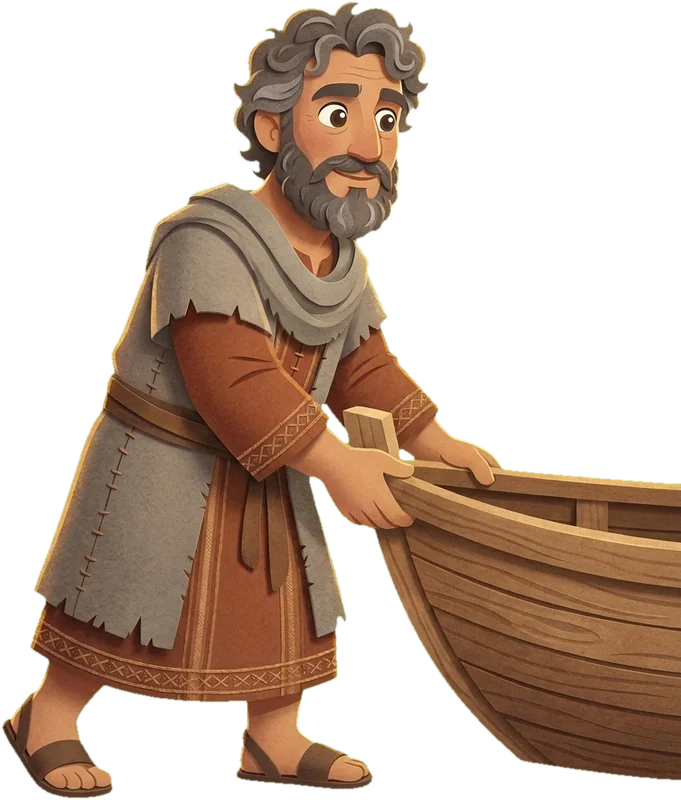
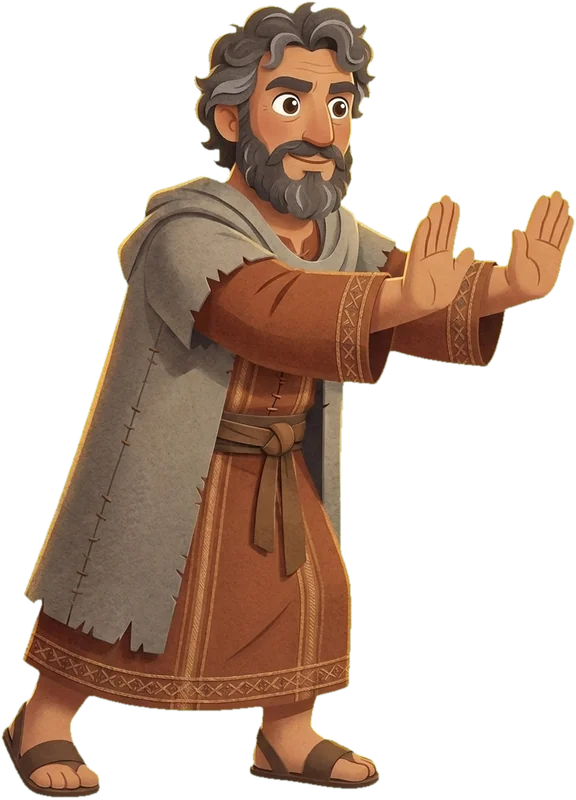
Flipbook mirrors inside the motion group; shore page: Peter without the boat piece, realistic village, bigger boat
Flipbook applied flip on the positioning group, which mirrored the
flight path as well, so a flipped bird flew backwards. The mirror now sits
inside the motion group, so flip only turns the bird and every path keeps
its direction; each flipbook bird's facing was checked against the fix.
On the shore page Peter is regenerated with empty palms instead of a
fragment of bow, the background gains a realistic first-century village
with terraces, stairs and trees, and the boat grows to 0.9 so its rail
meets Peter's hands. Gull rest positions and hotspot moved above the
yard.

diff --git a/src/art/raster.tsx b/src/art/raster.tsx
@@ -121,7 +121,10 @@ export interface Frame {
  * Two-frame flipbook (wings up / wings down) aligned on a shared anchor such
  * as the eye, so the swap reads as a flap, not a jump. Frame A rests visible
  * so Calm mode shows one clean pose. The outer group positions; `motion` is
- * the class on the group the frames sit in (a glide or drift path).
+ * the class on the group the frames sit in (a glide or drift path); `flip`
+ * mirrors the frames inside that group, so a mirrored bird still travels
+ * the path's own direction (every path in motion.css moves rightwards, so
+ * flip a cutout drawn facing left).
  */
 export function Flipbook({
   a,
@@ -143,28 +146,30 @@ export function Flipbook({
   const sx = flip ? -1 : 1;
   const style = { animationDelay: `${delay}s` };
   return (
-    <g transform={`translate(${x} ${y}) scale(${sx} 1)`}>
+    <g transform={`translate(${x} ${y})`}>
       <g className={motion} style={style}>
-        <image
-          href={a.src}
-          x={-a.ax * a.s}
-          y={-a.ay * a.s}
-          width={a.w * a.s}
-          height={a.h * a.s}
-          opacity="1"
-          className="a-frame-a"
-          style={style}
-        />
-        <image
-          href={b.src}
-          x={-b.ax * b.s}
-          y={-b.ay * b.s}
-          width={b.w * b.s}
-          height={b.h * b.s}
-          opacity="0"
-          className="a-frame-b"
-          style={style}
-        />
+        <g transform={`scale(${sx} 1)`}>
+          <image
+            href={a.src}
+            x={-a.ax * a.s}
+            y={-a.ay * a.s}
+            width={a.w * a.s}
+            height={a.h * a.s}
+            opacity="1"
+            className="a-frame-a"
+            style={style}
+          />
+          <image
+            href={b.src}
+            x={-b.ax * b.s}
+            y={-b.ay * b.s}
+            width={b.w * b.s}
+            height={b.h * b.s}
+            opacity="0"
+            className="a-frame-b"
+            style={style}
+          />
+        </g>
       </g>
     </g>
   );

diff --git a/src/scenes/storm.tsx b/src/scenes/storm.tsx
@@ -268,16 +268,16 @@ export function SettingOut({ found }: SceneArtProps) {
   return (
     <>
       <Backdrop src={eveningBg} />
-      <Gull x={640} y={150} s={0.22} delay={-4} flip />
-      <Gull x={760} y={110} s={0.16} delay={-13} flip />
-      <SoftShadow x={700} y={615} rx={280} ry={18} opacity={0.35} />
+      <Gull x={380} y={92} s={0.22} delay={-4} flip />
+      <Gull x={520} y={58} s={0.16} delay={-13} flip />
+      <SoftShadow x={690} y={612} rx={340} ry={20} opacity={0.35} />
       <Layer
         src={eveningBoat}
         w={L["boat-shore"].w}
         h={L["boat-shore"].h}
-        x={700}
-        y={615}
-        scale={0.68}
+        x={690}
+        y={612}
+        scale={0.9}
         className="a-rock"
       />
       <SoftShadow x={300} y={604} rx={80} ry={13} opacity={0.4} />

diff --git a/src/data/stories/storm.ts b/src/data/stories/storm.ts
@@ -48,8 +48,8 @@ export const storm: Story = {
         },
         {
           id: "gull",
-          x: 64,
-          y: 24,
+          x: 38,
+          y: 15,
           size: 14,
           label: "the seagull",
           reward: "Gulls follow the fishing boats hoping for scraps.",

diff --git a/docs/evidence/2026-09-18-storm-story/record.md b/docs/evidence/2026-09-18-storm-story/record.md
@@ -160,3 +160,35 @@ of sync, cloud and rocks unrealistic".
 Renders `storm-evening.png`, `storm-asleep.png` and the stills replaced;
 cutout sheets `*-cutouts-on-green-v2.png`. Calls this round: 5 (one boat
 attempt discarded). 155 tests, 38 scenes motion-clean.
+
+## Review round 3 (owner, 2026-09-19): page 1 again
+
+"Gulls still flying backwards; a disciple holds a broken piece of boat over
+the main boat; houses more realistic; boat bigger relative to the men."
+
+- **Gulls: component bug.** `Flipbook` applied `flip` on the outer
+  positioning group, so the mirror also reversed the motion path: a
+  flipped bird faced right and travelled left. The mirror now sits inside
+  the motion group (`src/art/raster.tsx`), so every path keeps its own
+  direction and `flip` only turns the bird. Every flight path in
+  `motion.css` moves rightwards; checked each flipbook bird's facing after
+  the fix: Christmas doves face right (no flip), creation red bird, blue
+  bird and dove face right, the goldfinch cutout faces right (creation
+  people page, fly path, no flip), David's bluebird faces right. The
+  flipped goldfinches on creation creatures and David's hill are on the
+  short `flutter` hover, where facing does not read as travel. Storm gulls
+  face left in their cutouts and are flipped, so they now fly beak first.
+- **Broken boat piece:** the first `peter-push` came with a fragment of
+  bow in his hands. Regenerated with "both palms pressed forward, NO boat,
+  NO object" (`evening-peter-push-v3.json`, 576×800, 55 KB); his palms
+  now rest on the real boat's rail.
+- **Houses:** background regenerated with a realistic first-century
+  village brief (limestone walls, flat roofs with parapets and outside
+  stairs, terraces, olive and fig trees, lamplight, painterly realism)
+  (`evening-bg-v3.json`, 166 KB). Scene 449 KB.
+- **Boat size:** scale 0.68 → 0.9, hull rail at the men's chest height,
+  stern runs off the right edge on purpose. Gull rest positions moved to
+  the clear sky above the yard; gull hotspot 38 %, 15 %.
+
+Render `storm-evening.png` and the two stills replaced. Calls this round:
+2. 155 tests, `tsc -b` clean, 38 scenes motion-clean.
